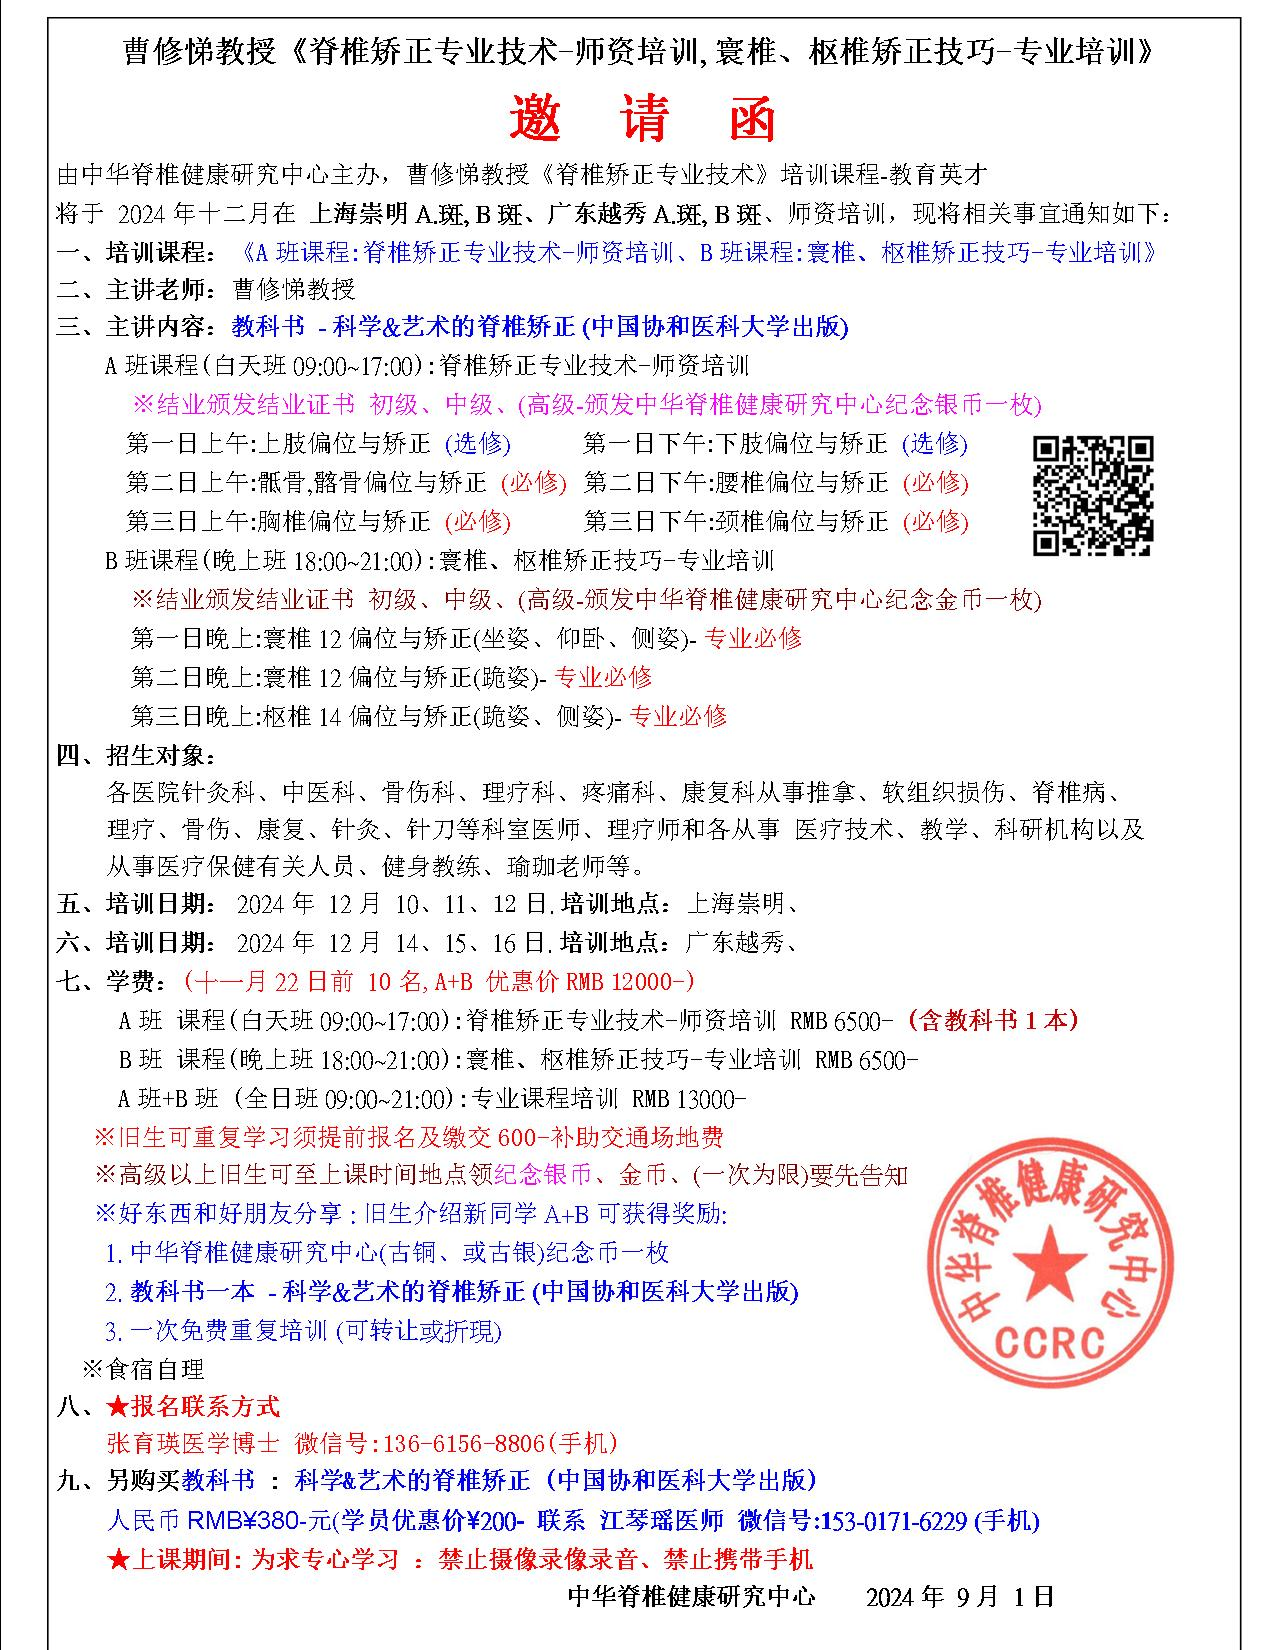
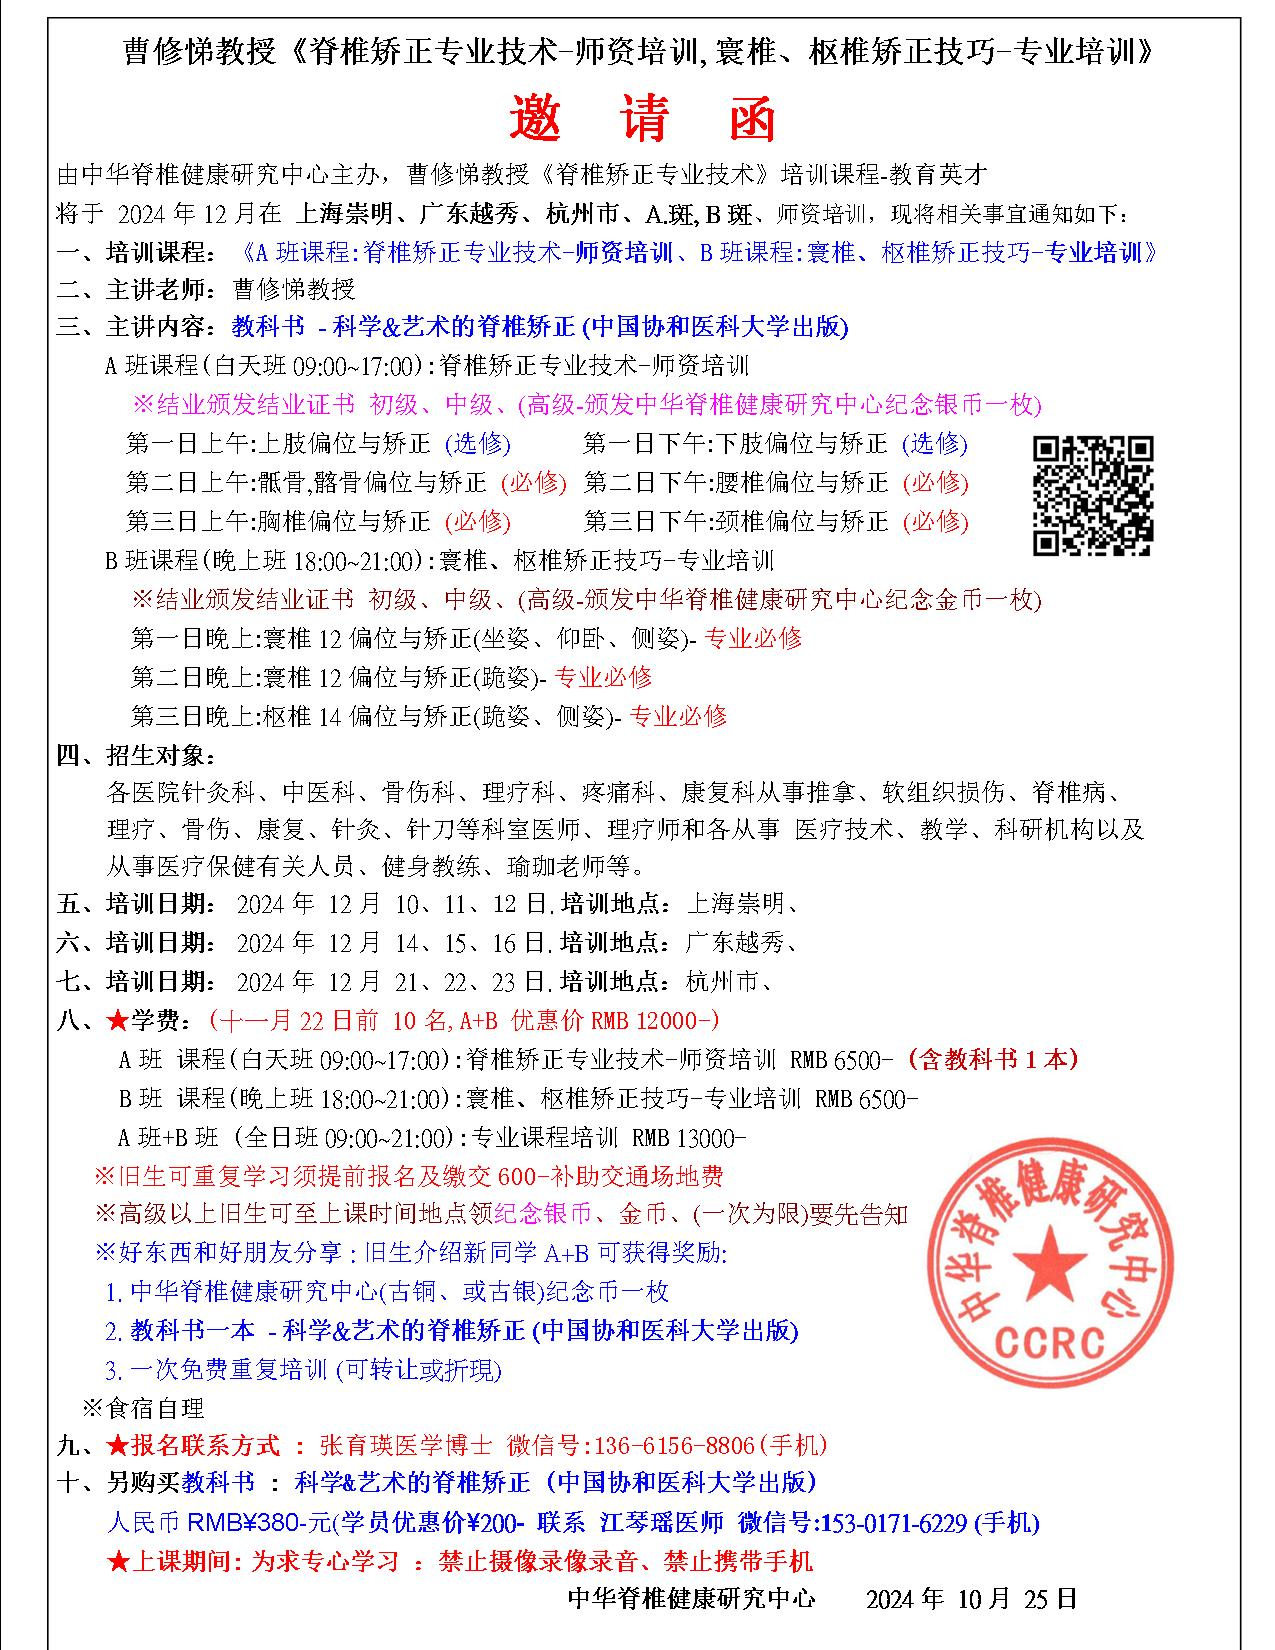
update
Update new classinfo.jpg and
class time of index.html.

diff --git a/index.html b/index.html
@@ -133,6 +133,13 @@
                         <td>&nbsp;</td>
                     </tr>
                     <tr>
+                        <td class="text-left">杭州市</td>
+                        <td>&nbsp;</td>
+                        <td>12/21 ~ 12/23</td>
+                        <td>&nbsp;</td>
+                        <td>&nbsp;</td>
+                    </tr>
+                    <tr>
                         <td class="text-left">成都-青羊区</td>
                         <td>&nbsp;</td>
                         <td>&nbsp;</td>
